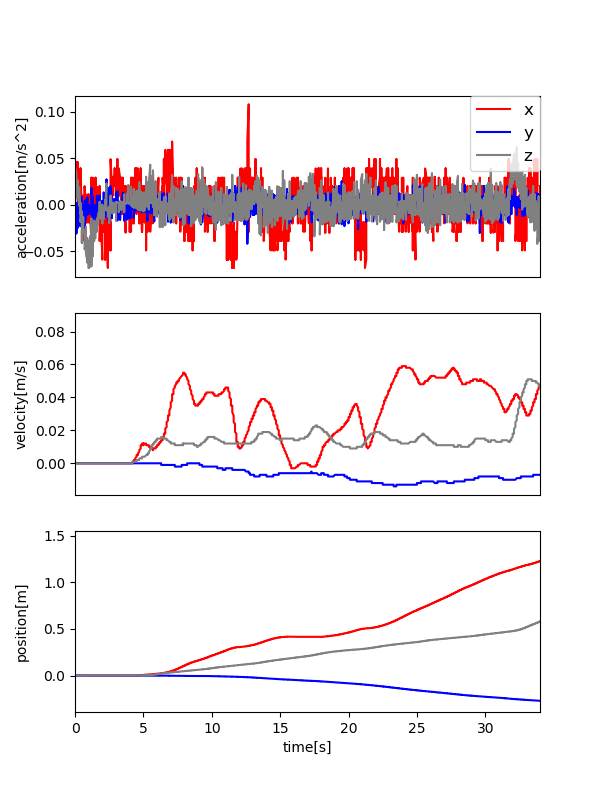
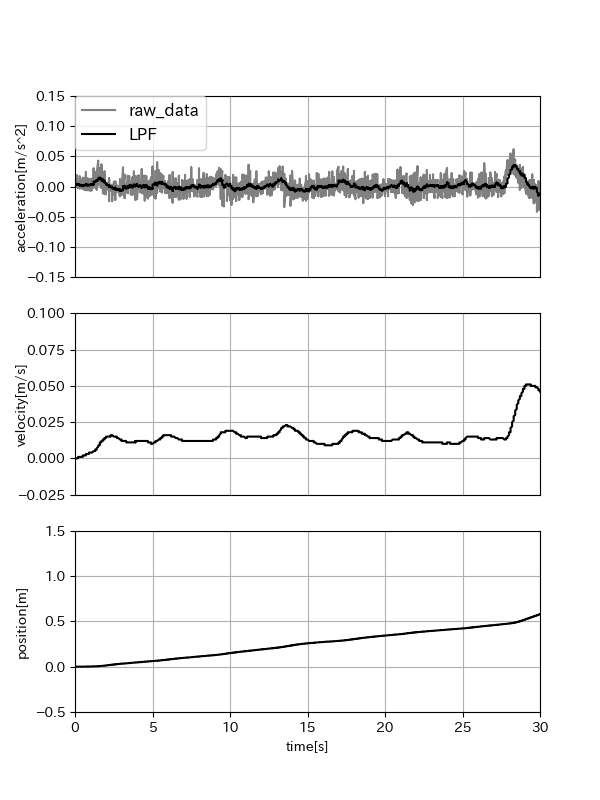
change acc graph

diff --git a/ExperimentalData/acc/graph.py b/ExperimentalData/acc/graph.py
@@ -3,37 +3,54 @@ import matplotlib.pyplot as plt
 
 for i in range(3):
     time,acc_x,acc_y,acc_z,vel_x,vel_y,vel_z,pos_x,pos_y,pos_z = np.loadtxt(str(i) + ".txt", delimiter = ",", skiprows = 1, unpack = True)
+    
+    # ローパスフィルタ
+    acc_z_LPF = [ acc_z[0] ]
+    j = 1
+    C = 0.1
+    for nowdata in acc_z:
+        acc_z_LPF.append( (1-C) * acc_z_LPF[j-1] + C * nowdata )
+        j+=1
+    acc_z_LPF.pop(i-1)
+    # acc_z_LPF_deg = list(map(lambda x: x * 180/np.pi, acc_z_LPF))
+
     fig1 = plt.figure(figsize=(6, 8))
 
     graph = fig1.add_subplot(311)
-    graph.plot(time,acc_x, color="red", label = "x")
-    graph.plot(time,acc_y, color="blue", label = "y")
-    graph.plot(time,acc_z, color="gray", label = "z")
+    # graph.plot(time,acc_x, color="red", label = "x")
+    # graph.plot(time,acc_y, color="blue", label = "y")
+    graph.plot(time-4,acc_z, color="gray", label = "raw_data")
+    graph.plot(time-4,acc_z_LPF, color="black", label = "LPF")
     plt.tick_params(labelbottom=False, bottom=False)
     graph.set_ylabel("acceleration[m/s^2]")
     graph.yaxis.set_label_coords(-0.1, 0.5)
-    plt.xlim(0,34)
-    # plt.ylim(-0.13,0.13)
-    plt.legend(bbox_to_anchor=(1, 1), loc="upper right", borderaxespad=0, fontsize=12)
+    plt.xlim(0,30)
+    plt.ylim(-0.15,0.15)
+    plt.legend(bbox_to_anchor=(0, 1), loc="upper left", borderaxespad=0, fontsize=12)
+    plt.grid()
 
     graph = fig1.add_subplot(312)
-    graph.plot(time,vel_x, color="red")
-    graph.plot(time,vel_y, color="blue")
-    graph.plot(time,vel_z, color="gray")
+    # graph.plot(time,vel_x, color="red")
+    # graph.plot(time,vel_y, color="blue")
+    graph.plot(time-4,vel_z, color="black")
     plt.tick_params(labelbottom=False, bottom=False)
     graph.set_ylabel("velocity[m/s]")
     graph.yaxis.set_label_coords(-0.1, 0.5)
-    plt.xlim(0,34)
-    # plt.ylim(-0.04,0.07)
+    # plt.xlim(4,34)
+    plt.xlim(0,30)
+    plt.ylim(-0.025,0.1)
+    plt.grid()
 
     graph = fig1.add_subplot(313)
-    graph.plot(time,pos_x, color="red")
-    graph.plot(time,pos_y, color="blue")
-    graph.plot(time,pos_z, color="gray")
-    plt.xlim(0,34)
-    # plt.ylim(-0.5,1.5)
+    # graph.plot(time,pos_x, color="red")
+    # graph.plot(time,pos_y, color="blue")
+    graph.plot(time-4,pos_z, color="black")
+    # plt.xlim(4,34)
+    plt.xlim(0,30)
+    plt.ylim(-0.5,1.5)
     graph.set_ylabel("position[m]")
     graph.yaxis.set_label_coords(-0.1, 0.5)
+    plt.grid()
 
     graph.set_xlabel("time[s]")
 
